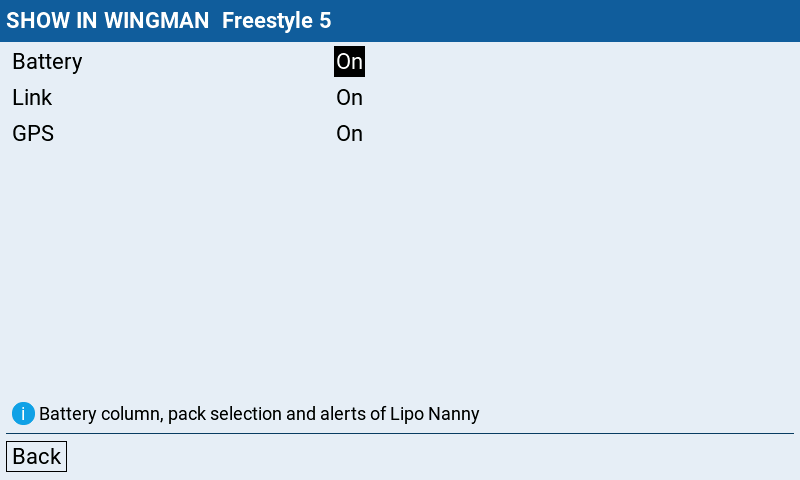
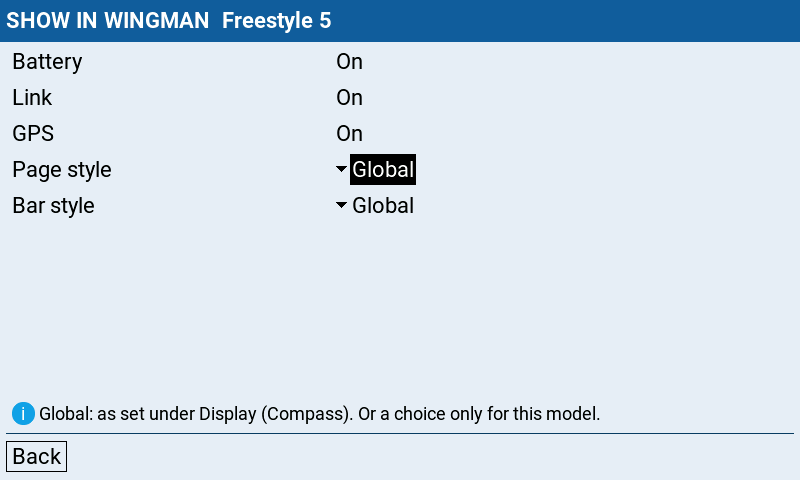
Release 1.3.0
Bundled cores: Lipo Nanny 2.3.0, Link Sentinel 3.3.0, GPS Homer 1.3.0.

- Page style and bar style per model: Flight Bag > Models > Show in Wingman has Page style and Bar style (Global or an own value)
- Stick gestures (pack selection, search page, waiting page) are locked in flight
- Disarmed again without a chosen pack, the flight page shows the pack selection; the horizon page falls back to the compass page meanwhile
- Docs: Flight Bag pictures with the new versions and the Page style row

Published-From: 8d485223ed58cc13f94899fa3376bdf701c022f7

diff --git a/docs/flightbag.md b/docs/flightbag.md
@@ -91,8 +91,8 @@ data, **Clear ...** erases one kind of data, **Erase everything** erases all dat
 | Link Sentinel | **Reset settings** | All Link Sentinel settings back to the defaults. |
 | GPS Homer | **Reset settings** | All GPS Homer settings back to the defaults. Last flights stay. |
 | GPS Homer | **Clear last flights** | Empties the list on the Last flights page. Settings stay. |
-| Flight Wingman | **Reset settings** | Mascot, page style, bar style and switch page back to the defaults. Show in Wingman and the FC modes stay. |
-| Flight Wingman | **Erase everything** | Also turns all modules back on for every model (Show in Wingman) and clears the stored FC modes. |
+| Flight Wingman | **Reset settings** | Mascot, page style and bar style (for all models) and switch page back to the defaults. Show in Wingman (with a model's own styles) and the FC modes stay. |
+| Flight Wingman | **Erase everything** | Also turns all modules back on and sets page and bar style back to `Global` for every model (Show in Wingman), and clears the stored FC modes. |
 
 A missing settings file shows **Create**, a damaged one **Recreate**: it replaces the file with a new one.
 
@@ -239,7 +239,7 @@ configured yet, **[+] Add current model** appears in the bottom bar.
 | Field | Notes |
 |---|---|
 | **Battery** | Only with Lipo Nanny. Cell count and number of assigned profiles, for example `6S, 1 battery`. Opens the battery page (see below). |
-| **Show in Wingman** | Only with Flight Wingman. Opens the module switches (see below). |
+| **Show in Wingman** | Only with Flight Wingman. The modules shown, and the model's own page and bar style in brackets (for example `Battery, Link, GPS (Horizon, Zones)`). Opens the module switches and the styles (see below). |
 | **SD logs** | `Off`, or the trigger and interval of the model's log function (for example `SF↓, 0.5 s`, with `, disabled` when it is switched off in the model), or `No trigger` for an SD Logs function without a switch. Opens the SD logs page (see below). Only for the active model. |
 
 Buttons: **Back**, **Save** and **Delete** (existing model settings only). **Save** also stores what you changed on the
@@ -293,6 +293,11 @@ on the model's telemetry page first. Sensors can only be edited for the active m
 Switches **Battery**, **Link** and **GPS** on or off for this model (default all on). A switched-off column stays
 empty in Flight Wingman, is left out of the ready check and frees its space for the others. Switching it off also
 stops that project's announcements on this model.
+
+**Page style** and **Bar style** pick the look for this model: `Global` (default) uses the choice under **Display**,
+which applies to every model set to `Global`; any other value applies to this model only (for example `Horizon` for
+one model while the others keep `Compass`). **Reset settings** keeps a model's own styles, **Erase everything** sets
+every model back to `Global`.
 
 ### SD logs
 
@@ -360,8 +365,8 @@ What the widgets show, and the language of Flight Bag. The shared rows on top ap
 | Row | Notes |
 |---|---|
 | **Mascot** | The character on the waiting page, `Quad` (default) or `Scout`. |
-| **Page style** | The look of the flight page: `Compass` (default), `Horizon` (large artificial horizon from the flight controller's pitch and roll) or `Tiles` (three large tiles for a quick glance, also on the preflight page: battery, home arrow and range fill up and turn yellow or red). The horizon follows the model smoothly only with **Telem Ratio** 1:4 or faster in the ExpressLRS Lua script (with `Std` it moves only every few seconds). |
-| **Bar style** | How the battery, link and LQ bars (with `Tiles`: the fill of the tiles) look on the flight and preflight pages: `Solid` (default, one bar with marks at the thresholds), `Segments` (20 blocks, empty blocks in a warning range tinted yellow or red) or `Zones` (a thinner bar with a strip below it showing the warning ranges and a pointer at the current value). |
+| **Page style** | The look of the flight page for every model set to `Global` (a model can have its own under **Models → Show in Wingman**): `Compass` (default), `Horizon` (large artificial horizon from the flight controller's pitch and roll) or `Tiles` (three large tiles for a quick glance, also on the preflight page: battery, home arrow and range fill up and turn yellow or red). The horizon follows the model smoothly only with **Telem Ratio** 1:4 or faster in the ExpressLRS Lua script (with `Std` it moves only every few seconds). |
+| **Bar style** | For every model set to `Global` (a model can have its own under **Models → Show in Wingman**): how the battery, link and LQ bars (with `Tiles`: the fill of the tiles) look on the flight and preflight pages: `Solid` (default, one bar with marks at the thresholds), `Segments` (20 blocks, empty blocks in a warning range tinted yellow or red) or `Zones` (a thinner bar with a strip below it showing the warning ranges and a pointer at the current value). |
 | **Switch page** | `On` (default): on the waiting page, hold the aileron stick right for a second to see every switch of the radio with its channel, the flight modes it switches on in Betaflight or INAV (read from the flight controller at each connection and kept per model) and the special functions on each position; hold it left to go back. `Off` hides the page and skips the reading. |
 
 The preflight page, which only `Tiles` changes:

diff --git a/README.md b/README.md
@@ -138,9 +138,9 @@ Open **SYS → Tools → Apps → Flight Bag** and set up battery, link and GPS 
 
 ### Stick controls
 
-Touch and keys don't reach a widget in App mode, so Flight Wingman uses the sticks, and only while disarmed:
+Touch and keys don't reach a widget in App mode, so Flight Wingman uses the sticks, and only while disarmed. On a model without a flight controller (no flight mode sensor) it cannot tell armed from disarmed, so there the gestures only work with the throttle stick fully down:
 
-- **Pack selection:** elevator moves the cursor, aileron held right for 1 s confirms.
+- **Pack selection:** elevator moves the cursor, aileron held right for 1 s confirms. Forgot to choose a pack before arming? Disarm, and the flight page shows the selection again.
 - **Close the search page:** aileron held right for 1 s.
 - **Mute the finder beeps:** on the search page, aileron held left for 1 s (again to unmute); each new search starts with sound.
 - **Show the last post-flight page again:** on the waiting page, aileron held left for 1 s.
